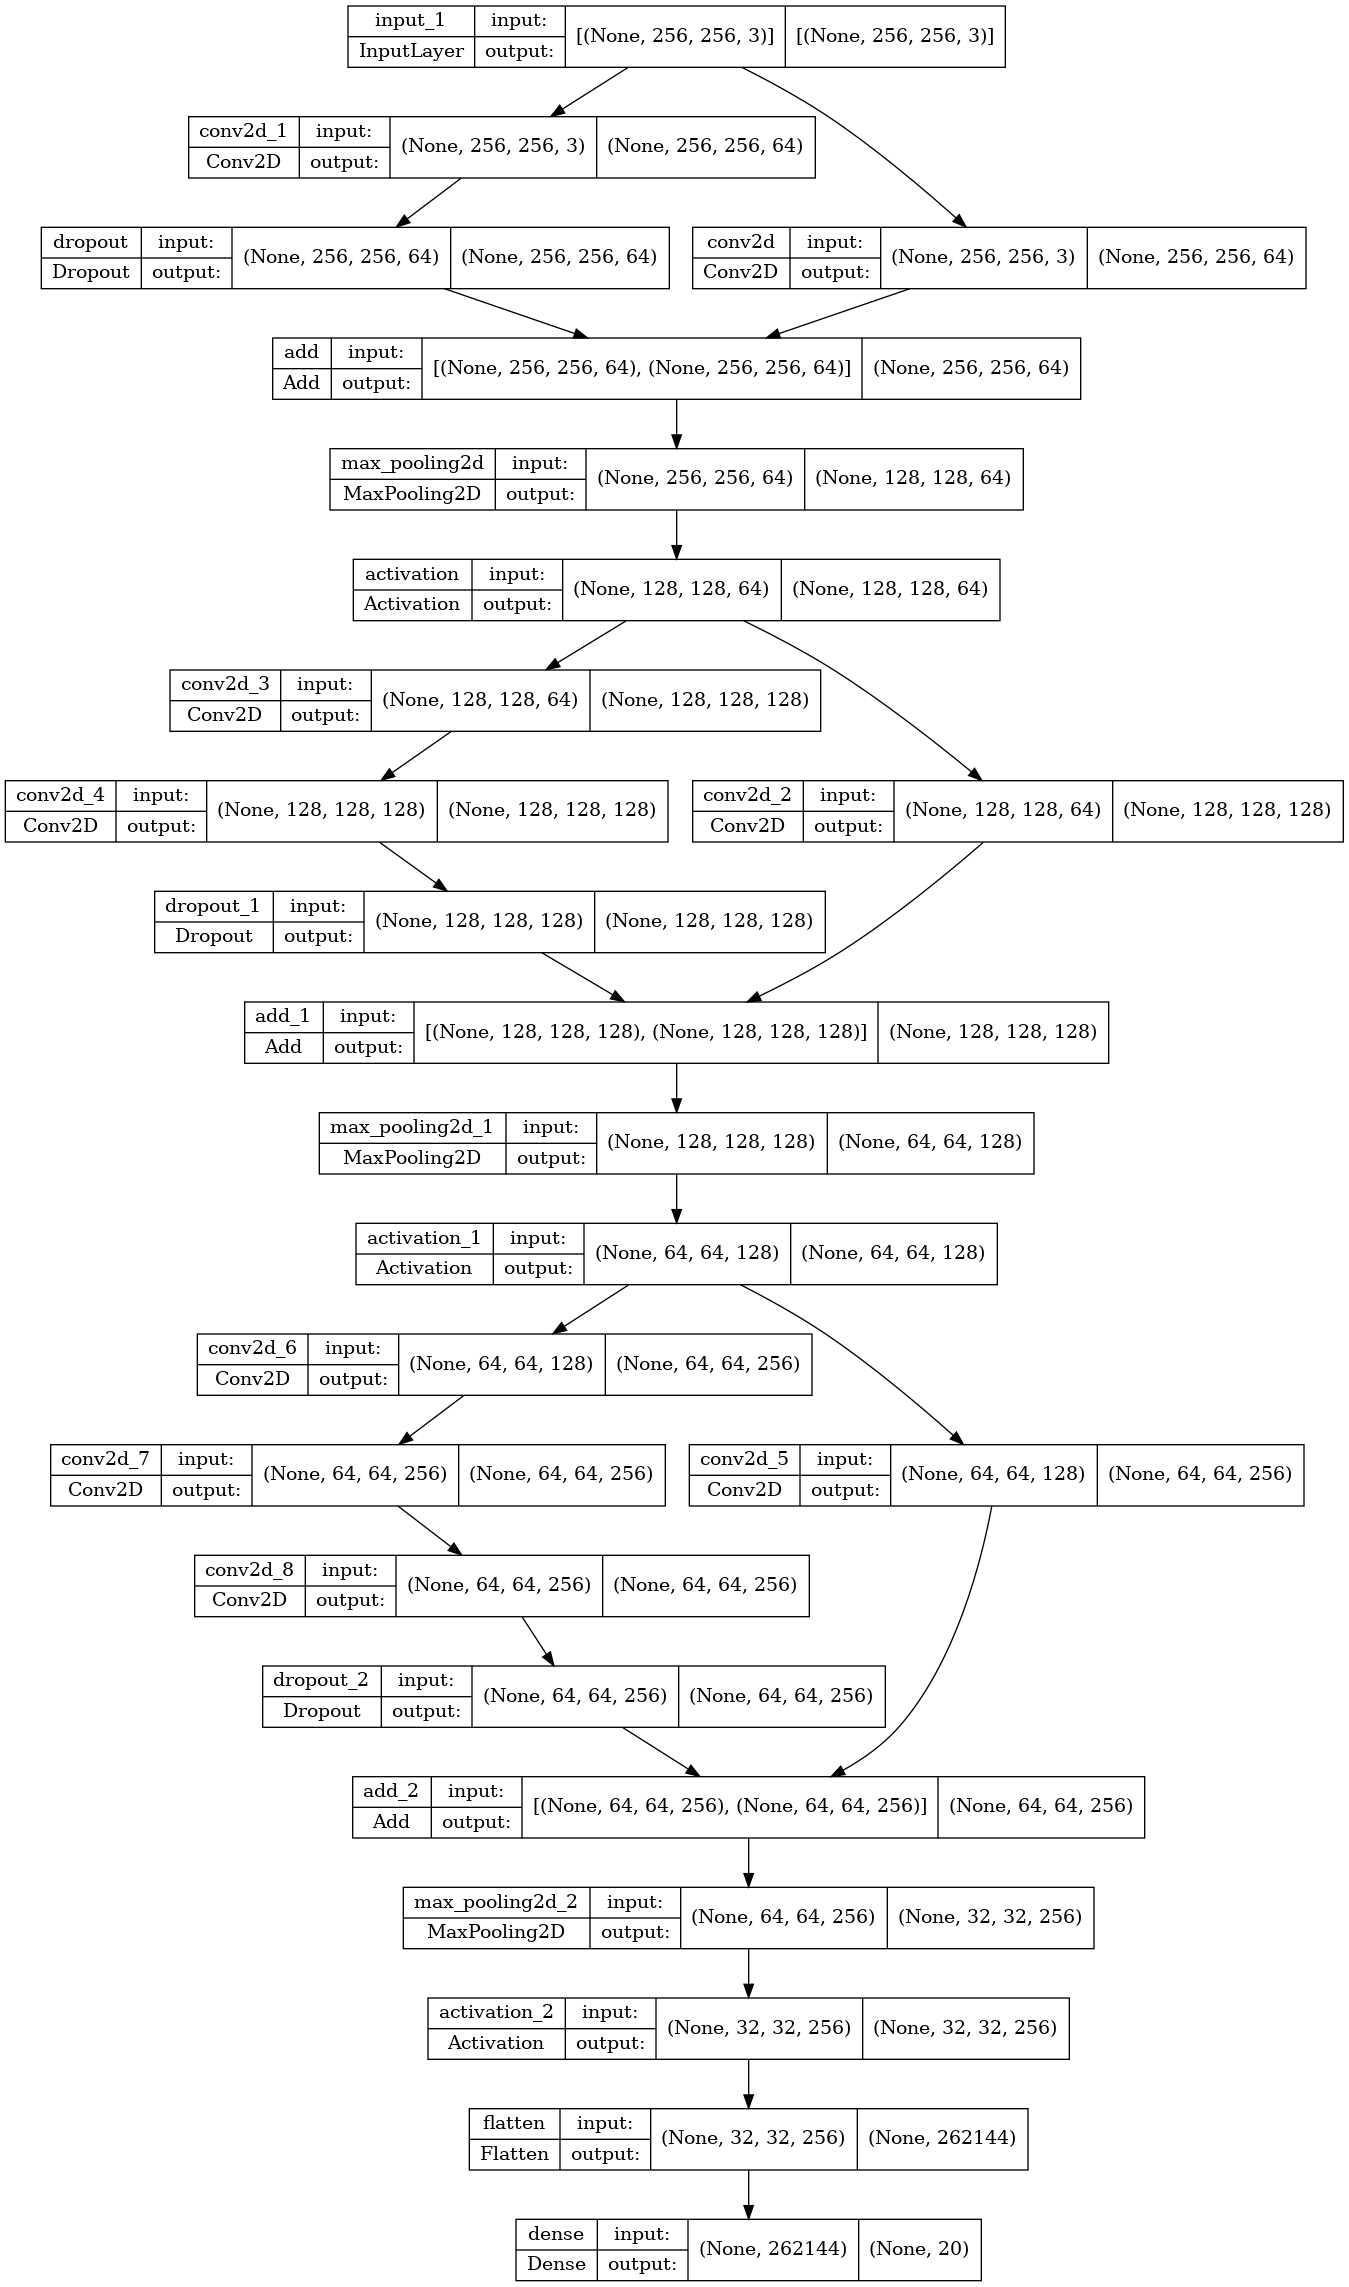
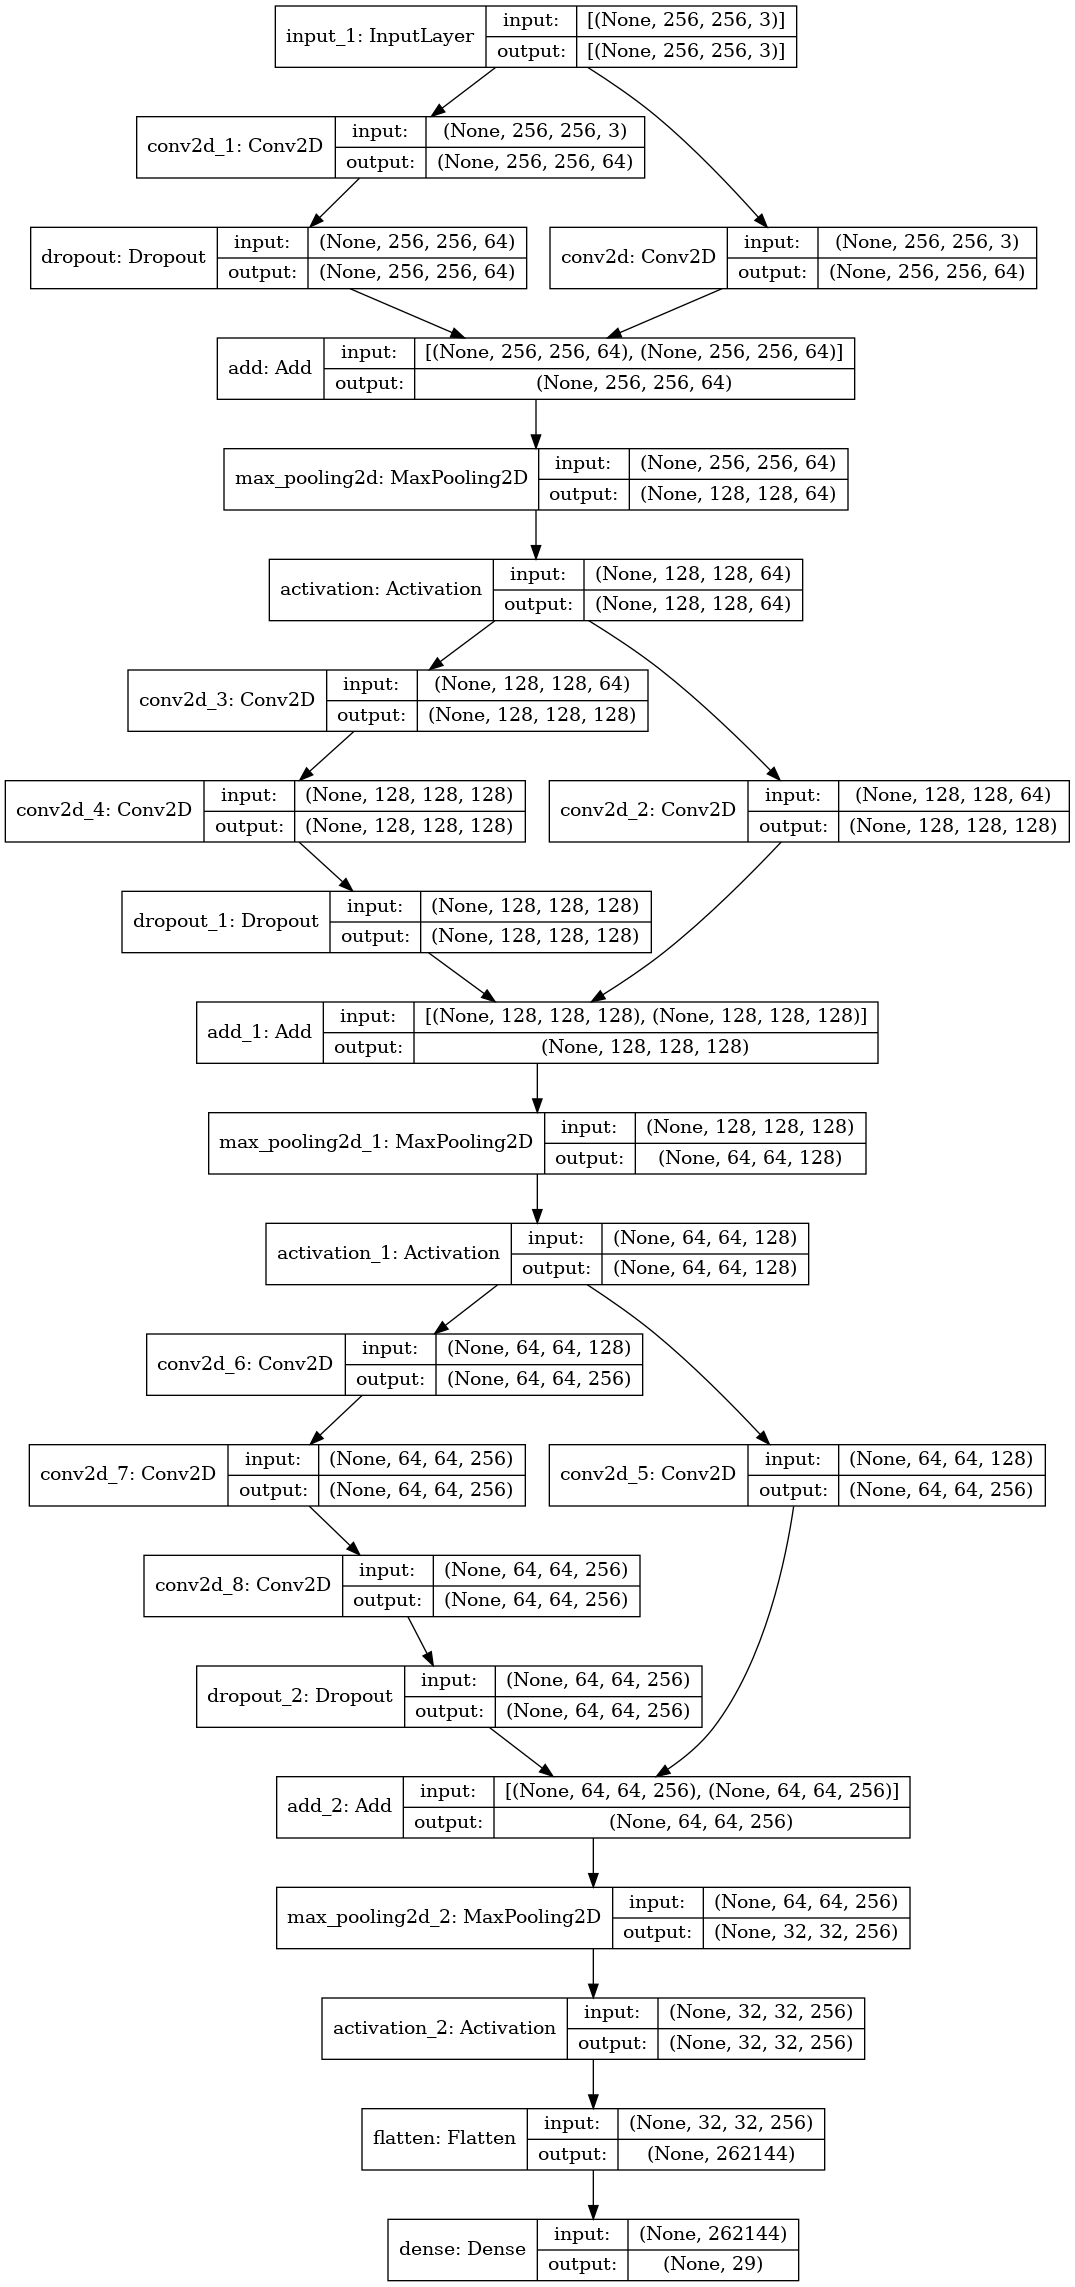
created trainer for resnet

Changed region(s): [[0.0, 0.0, 1.0, 0.9934]]

diff --git a/MAMeProject/test.py b/MAMeProject/test.py
@@ -1,0 +1,44 @@
+from tensorflow.keras import optimizers
+from data_loader import MAMeDataset
+import matplotlib.pyplot as plt
+from modelR import createModel
+
+img_size = 256
+globalAVGPooling = False
+num_classes = 20
+weight_decay = 1e-4
+loss = ['categorical_crossentropy', 'binary_crossentropy', 'mean_squared_error', 'mean_absolute_error'][0]
+n_epochs = 5
+batch_size = 128
+num_classes = 29
+
+def train():
+    train_dataset = MAMeDataset(batch_size=batch_size, n_class=num_classes)
+    test_dataset = MAMeDataset(batch_size=batch_size, n_class=num_classes, mode='test')
+
+    x, y = train_dataset[0]
+
+    print(x.shape)
+    print(y.shape)
+
+    #model = createModel(weight_decay,num_classes,globalAVGPooling)
+    #opt_rms = optimizers.RMSprop(learning_rate=0.001, decay=1e-6)
+    #model.compile(loss=loss, optimizer=opt_rms, metrics=['acc'])
+    #for i in train_dataset:
+    #    print (i)
+    #mdl_fit = model.fit_generator(train_dataset, steps_per_epoch=len(train_dataset) // batch_size, 
+    #                    epochs=n_epochs, verbose=1, validation_data=test_dataset)
+#
+    #plt.plot(mdl_fit.history['loss'], label='train loss')
+    #plt.plot(mdl_fit.history['val_loss'], label='val loss')
+    #plt.legend()
+    #plt.show()
+#
+    ## plot the AUC
+    #plt.plot(mdl_fit.history['acc'], label='train acc')
+    #plt.plot(mdl_fit.history['val_acc'], label='val acc')
+    #plt.legend()
+    #plt.show()
+
+
+train()

diff --git a/MAMeProject/trainerR.py b/MAMeProject/trainerR.py
@@ -1,0 +1,42 @@
+from tensorflow.keras import optimizers
+from data_loader import MAMeDataset
+import matplotlib.pyplot as plt
+from modelR import createModel
+
+img_size = 256
+globalAVGPooling = False
+num_classes = 20
+weight_decay = 1e-4
+loss = ['categorical_crossentropy', 'binary_crossentropy', 'mean_squared_error', 'mean_absolute_error'][0]
+n_epochs = 5
+batch_size = 128
+num_classes = 29
+
+def train():
+    train_dataset = MAMeDataset(batch_size=batch_size, n_class=num_classes)
+    test_dataset = MAMeDataset(batch_size=batch_size, n_class=num_classes, mode='test')
+
+    x, y = train_dataset[0]
+
+    print(x.shape)
+    print(y.shape)
+
+    model = createModel(weight_decay,num_classes,globalAVGPooling)
+    opt_rms = optimizers.RMSprop(learning_rate=0.001, decay=1e-6)
+    model.compile(loss=loss, optimizer=opt_rms, metrics=['acc'])
+    mdl_fit = model.fit_generator(train_dataset, steps_per_epoch=len(train_dataset) // batch_size, 
+                        epochs=n_epochs, verbose=1, validation_data=test_dataset)
+
+    plt.plot(mdl_fit.history['loss'], label='train loss')
+    plt.plot(mdl_fit.history['val_loss'], label='val loss')
+    plt.legend()
+    plt.show()
+
+    # plot the AUC
+    plt.plot(mdl_fit.history['acc'], label='train acc')
+    plt.plot(mdl_fit.history['val_acc'], label='val acc')
+    plt.legend()
+    plt.show()
+
+
+train()

diff --git a/MAMeProject/modelR.py b/MAMeProject/modelR.py
@@ -6,7 +6,7 @@ from keras.regularizers import l2
 from keras.layers import GlobalAveragePooling2D,Flatten,Dense
 from keras import backend as K
 from keras import regularizers
-from keras.utils.vis_utils import plot_model
+#from keras.utils.vis_utils import plot_model
 
 
 def block(numConv,layer_in,n_filters,dropOutR,weight_decay):
@@ -36,7 +36,7 @@ def createModel(weight_decay,num_classes,globalAVGPooling):
 
     model=Model(inputs=visible,outputs=layer)
     model.summary()
-    plot_model(model, show_shapes=True, to_file='residual_module.png')
+    #plot_model(model, show_shapes=True, to_file='residual_module.png')
     return model
 
 def main():
